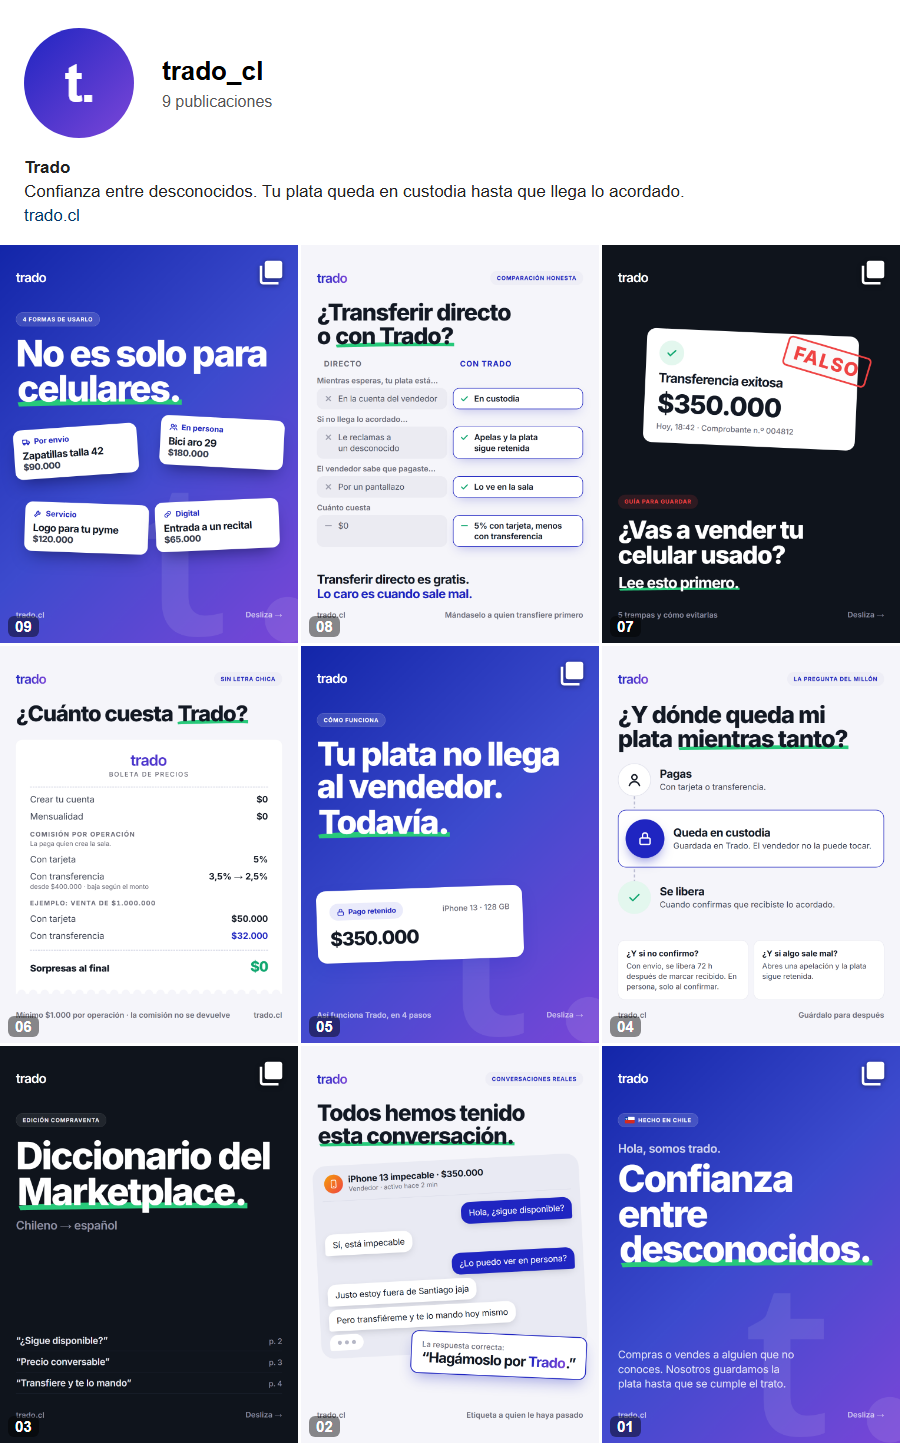
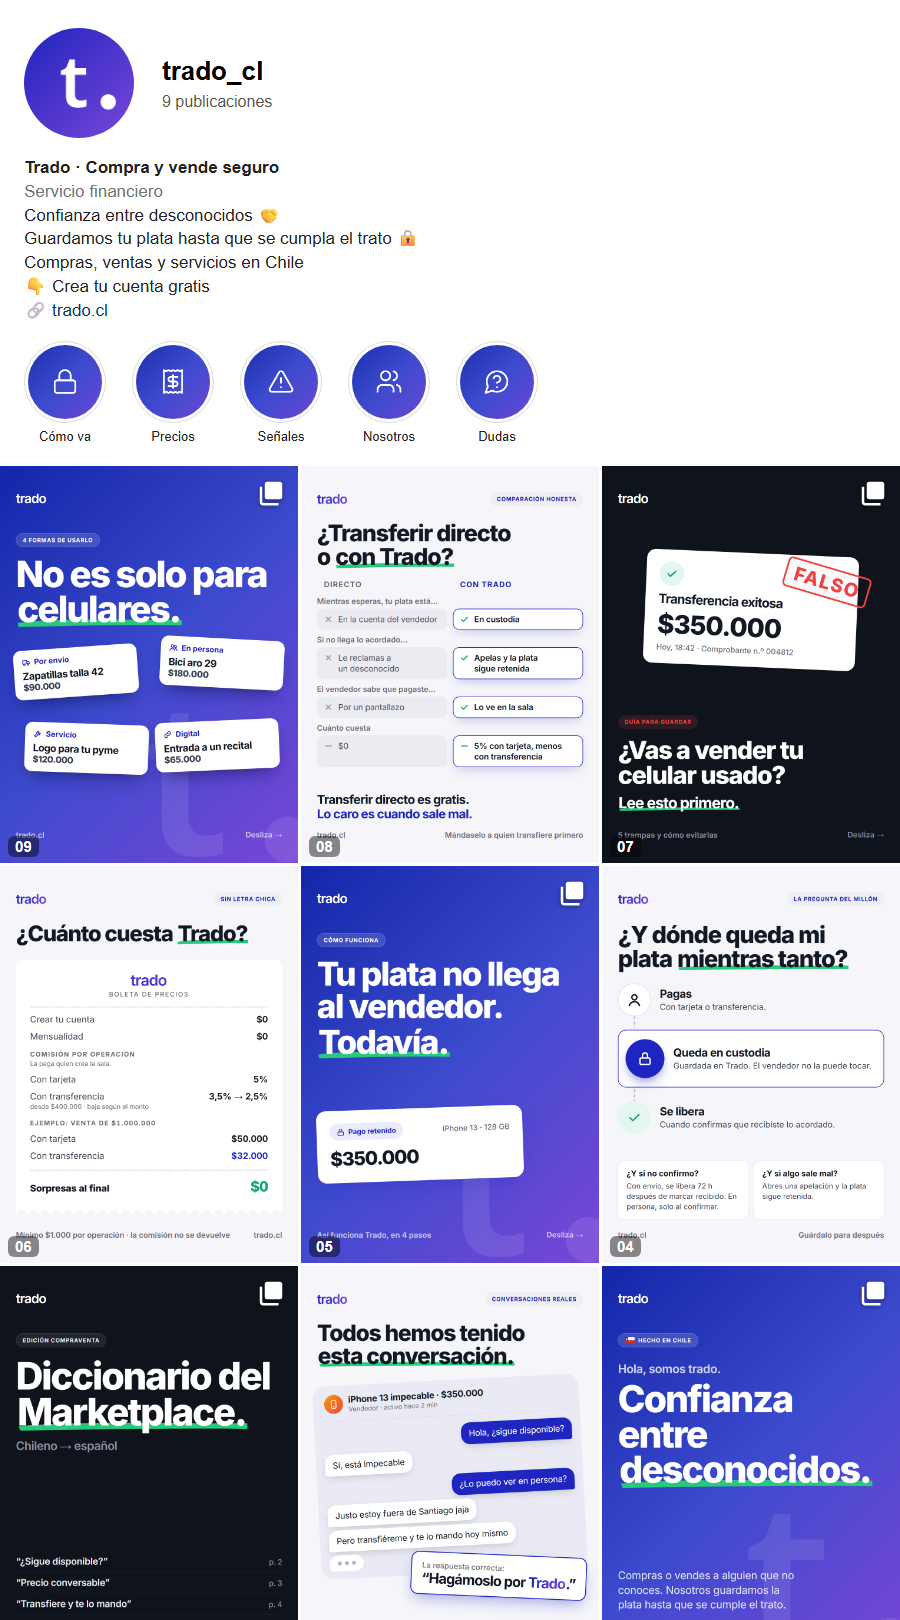
Instagram: portadas de destacadas y perfil optimizado en la vista previa

diff --git a/Instagram/_sistema/destacadas/portada.html b/Instagram/_sistema/destacadas/portada.html
@@ -1,0 +1,32 @@
+<!doctype html>
+<!-- Portada de historia destacada, 1080x1920. El ícono va con ?i=nombre.
+     Instagram recorta un círculo al centro: todo lo importante vive ahí. -->
+<html lang="es">
+<head>
+<meta charset="utf-8">
+<style>
+  html, body { margin: 0; width: 1080px; height: 1920px; overflow: hidden; }
+  body {
+    background: linear-gradient(135deg, #1225A8 0%, #3D4BCE 50%, #7B46D8 100%);
+    display: flex; align-items: center; justify-content: center;
+  }
+  svg { width: 400px; height: 400px; }
+</style>
+</head>
+<body>
+<svg id="icono" viewBox="0 0 24 24" fill="none" stroke="#fff" stroke-width="1.6"
+     stroke-linecap="round" stroke-linejoin="round"></svg>
+<script>
+  // Íconos de Lucide, los mismos que usa la app.
+  const ICONOS = {
+    custodia: '<rect width="18" height="11" x="3" y="11" rx="2" ry="2"/><path d="M7 11V7a5 5 0 0 1 10 0v4"/>',
+    precios: '<path d="M4 2v20l2-1 2 1 2-1 2 1 2-1 2 1 2-1 2 1V2l-2 1-2-1-2 1-2-1-2 1-2-1-2 1Z"/><path d="M16 8h-6a2 2 0 1 0 0 4h4a2 2 0 1 1 0 4H8"/><path d="M12 17.5v-11"/>',
+    senales: '<path d="m21.73 18-8-14a2 2 0 0 0-3.48 0l-8 14A2 2 0 0 0 4 21h16a2 2 0 0 0 1.73-3"/><path d="M12 9v4"/><path d="M12 17h.01"/>',
+    nosotros: '<path d="M16 21v-2a4 4 0 0 0-4-4H6a4 4 0 0 0-4 4v2"/><circle cx="9" cy="7" r="4"/><path d="M22 21v-2a4 4 0 0 0-3-3.87"/><path d="M16 3.13a4 4 0 0 1 0 7.75"/>',
+    dudas: '<path d="M7.9 20A9 9 0 1 0 4 16.1L2 22Z"/><path d="M9.09 9a3 3 0 0 1 5.83 1c0 2-3 3-3 3"/><path d="M12 17h.01"/>',
+  };
+  const i = new URLSearchParams(location.search).get("i");
+  document.getElementById("icono").innerHTML = ICONOS[i] ?? "";
+</script>
+</body>
+</html>

diff --git a/Instagram/_sistema/vista-perfil.py b/Instagram/_sistema/vista-perfil.py
@@ -6,6 +6,19 @@ FEED = AQUI / "feed"
 salida = pathlib.Path(sys.argv[1]).resolve()
 con_reel = "--reel" in sys.argv
 
+# Lo que va en "Editar perfil". La bio tiene tope de 150 caracteres.
+NOMBRE = "Trado · Compra y vende seguro"
+CATEGORIA = "Servicio financiero"
+BIO = """Confianza entre desconocidos 🤝
+Guardamos tu plata hasta que se cumpla el trato 🔒
+Compras, ventas y servicios en Chile
+👇 Crea tu cuenta gratis"""
+ENLACE = "trado.cl"
+FOTO = AQUI.parent / "4 Logos" / "2 Icono t" / "Cuadrado (foto de perfil)" / "01 icono degradado.png"
+DESTACADAS = [("custodia", "Cómo va"), ("precios", "Precios"), ("senales", "Señales"), ("nosotros", "Nosotros"), ("dudas", "Dudas")]
+PORTADAS = AQUI.parent / "3 Historias destacadas" / "Portadas"
+assert len(BIO) <= 150, f"La bio tiene {len(BIO)} caracteres; Instagram acepta 150."
+
 posts = sorted(d for d in os.listdir(FEED) if d[:2].isdigit() and not d.startswith("10-reel"))
 items = [(d, FEED / d / "slide-1.png", "carrusel" if len(list((FEED / d).glob("slide-*.png"))) > 1 else "") for d in posts]
 if con_reel:
@@ -21,23 +34,32 @@ for nombre, img, tipo in items:
     ic = f'<svg viewBox="0 0 24 24" class=ic>{ICONO[tipo]}</svg>' if tipo else ""
     celdas += f"<div class=c><img src='{img.as_uri()}'>{ic}<span>{nombre[:2]}</span></div>"
 
+destacadas = "".join(
+    f"<div class=d><div class=dc><img src='{(PORTADAS / f'0{n}-{clave}.png').as_uri()}'></div>{titulo}</div>"
+    for n, (clave, titulo) in enumerate(DESTACADAS, 1))
+bio_html = BIO.replace(chr(10), "<br>")
+
 html = f"""<html><head><style>
 body{{margin:0;background:#fff;font-family:Arial,sans-serif;width:900px}}
 .perfil{{display:flex;align-items:center;gap:28px;padding:28px 24px 18px}}
-.foto{{width:110px;height:110px;border-radius:50%;background:linear-gradient(135deg,#1F25C1,#7B46D8);display:grid;place-items:center;color:#fff;font:700 54px Arial;letter-spacing:-2px}}
+.foto{{width:110px;height:110px;border-radius:50%;object-fit:cover}}
+.cat{{color:#737373}} .d{{display:flex;flex-direction:column;align-items:center;gap:6px;font:13px Arial;color:#222}}
+.ds{{display:flex;gap:26px;padding:0 24px 22px}} .dc{{width:74px;height:74px;border-radius:50%;padding:3px;border:1px solid #dbdbdb}}
+.dc img{{width:100%;height:100%;border-radius:50%;object-fit:cover}}
 .n{{font:700 26px Arial}} .bio{{font:17px/1.4 Arial;color:#222;padding:0 24px 18px}}
 .g{{display:grid;grid-template-columns:repeat(3,1fr);gap:3px}}
 .c{{position:relative;aspect-ratio:3/4;overflow:hidden}} .c img{{width:100%;height:100%;object-fit:cover}}
 .ic{{position:absolute;top:12px;right:12px;width:30px;height:30px;filter:drop-shadow(0 1px 2px rgba(0,0,0,.5))}}
 .c span{{position:absolute;left:8px;bottom:6px;font:700 15px Arial;color:#fff;background:rgba(0,0,0,.45);padding:2px 7px;border-radius:6px}}
 </style></head><body>
-<div class=perfil><div class=foto>t.</div><div><div class=n>trado_cl</div><div style="font:16px Arial;color:#555;margin-top:6px">{len(items)} publicaciones</div></div></div>
-<div class=bio><b>Trado</b><br>Confianza entre desconocidos. Tu plata queda en custodia hasta que llega lo acordado.<br><span style="color:#00376B">trado.cl</span></div>
+<div class=perfil><img class=foto src='{FOTO.as_uri()}'><div><div class=n>trado_cl</div><div style="font:16px Arial;color:#555;margin-top:6px">{len(items)} publicaciones</div></div></div>
+<div class=bio><b>{NOMBRE}</b><br><span class=cat>{CATEGORIA}</span><br>{bio_html}<br><span style="color:#00376B">🔗 {ENLACE}</span></div>
+<div class=ds>{destacadas}</div>
 <div class=g>{celdas}</div></body></html>"""
 tmp = AQUI / "_vista.html"
 tmp.write_text(html, encoding="utf8")
 filas = -(-len(items) // 3)
-alto = 250 + filas * 400
+alto = 420 + filas * 400
 chrome = r"C:\Program Files\Google\Chrome\Application\chrome.exe"
 subprocess.run([chrome, "--headless=new", "--disable-gpu", "--hide-scrollbars", "--allow-file-access-from-files",
                 "--force-device-scale-factor=1", f"--window-size=900,{alto}", "--virtual-time-budget=3000",
